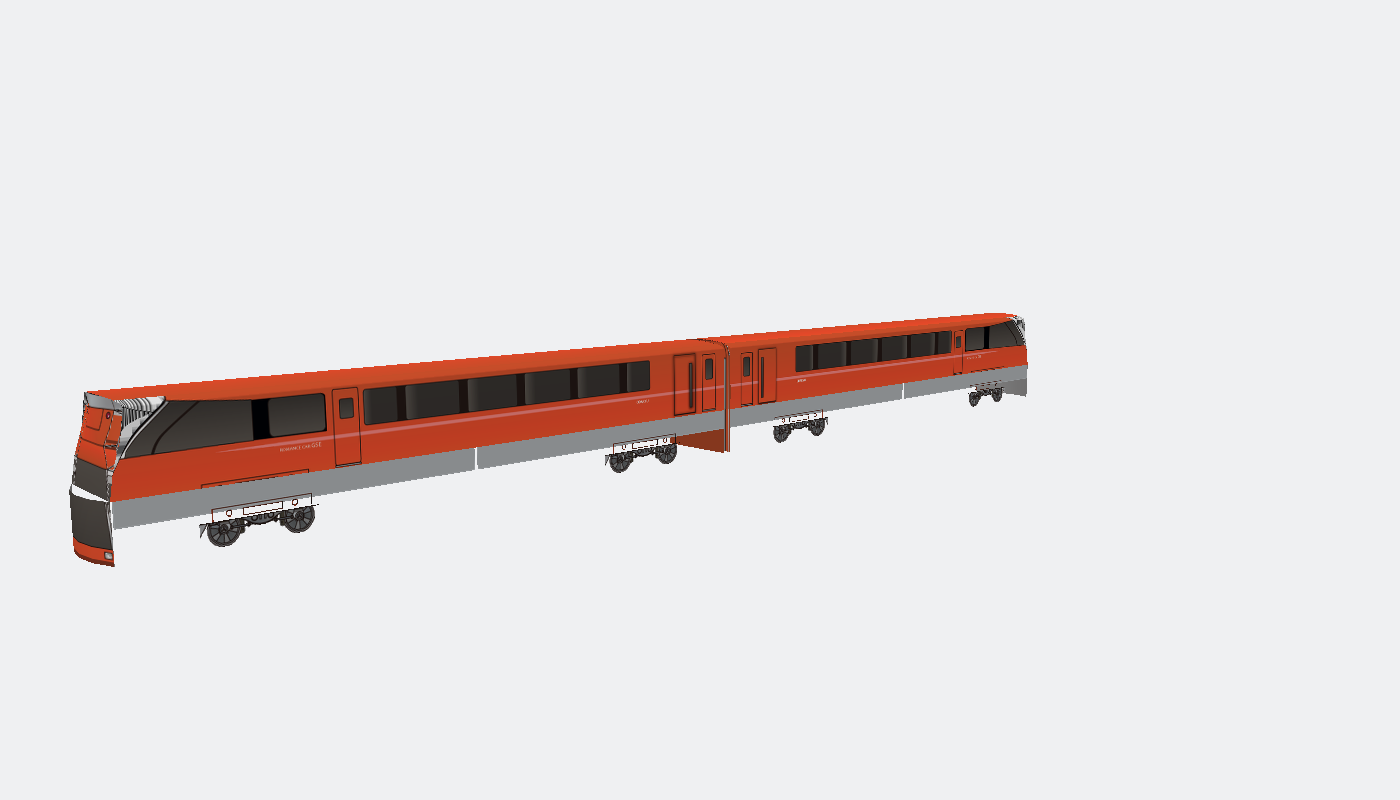
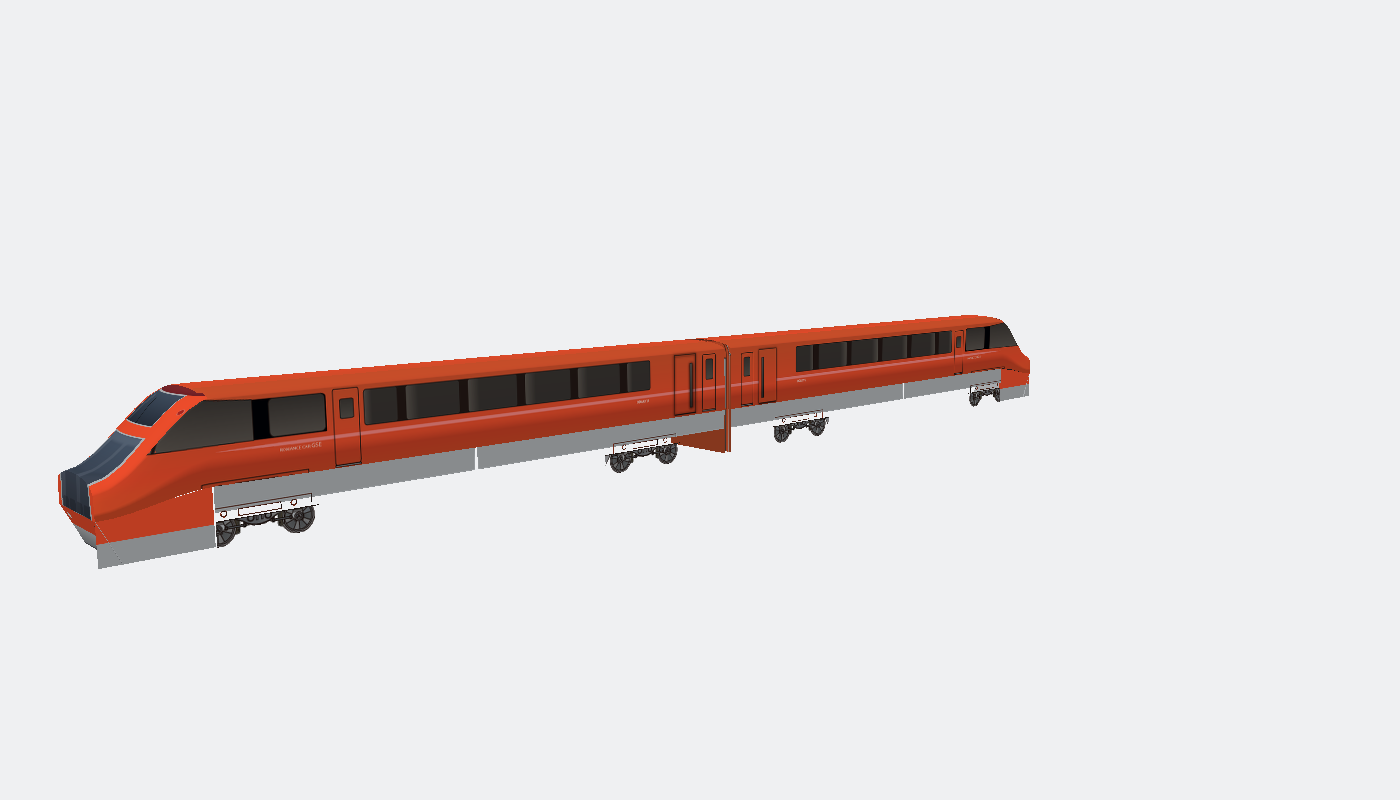
Rework batch 2 round 2: #391 odakyu-60000 + #404 osakyu-70000 rebuilt (MC 2026-11-27 14:31); batch-2 page cards refreshed to R2

Changed region(s): [[0.0307, 0.375, 0.7371, 0.7188]]

diff --git a/mc-review-rework2-round2-20261127/index.html b/mc-review-rework2-round2-20261127/index.html
@@ -1,0 +1,60 @@
+<!DOCTYPE html>
+<html lang="zh-CN">
+<head>
+<meta charset="utf-8">
+<meta name="viewport" content="width=device-width, initial-scale=1">
+<title>MC 快速审核第二批返工·第二轮 — 2 辆（2026-11-27）</title>
+<style>
+body{font-family:system-ui,-apple-system,"PingFang SC","Microsoft YaHei",sans-serif;margin:0;background:#f4f4f4;color:#222}
+.wrap{max-width:900px;margin:0 auto;padding:20px 16px 48px}
+h1{font-size:22px;margin:8px 0 4px}
+.sub{color:#666;font-size:14px;line-height:1.7;margin:0 0 18px}
+.card{background:#fff;border:1px solid #ddd;border-radius:10px;padding:16px;margin:0 0 18px}
+.card h2{font-size:17px;margin:0 0 8px}
+.card p{font-size:14px;line-height:1.7;color:#444;margin:0 0 10px}
+img{width:100%;height:auto;display:block;border:1px solid #ccc;border-radius:6px}
+.note{font-size:13px;color:#888;line-height:1.7}
+.warn{background:#fff3cd;border:1px solid #e6c200;border-radius:8px;padding:12px 14px;font-size:14px;line-height:1.7;margin:0 0 18px}
+.ok{background:#e6f4ea;border:1px solid #34a853;border-radius:8px;padding:12px 14px;font-size:14px;line-height:1.7;margin:0 0 18px}
+.cmp{display:grid;grid-template-columns:1fr 1fr;gap:10px;margin:0 0 10px}
+.cmp figure{margin:0}
+.cmp figcaption{font-size:13px;color:#666;text-align:center;margin-top:4px}
+code{font-size:12px;word-break:break-all}
+a{color:#0b5cad}
+</style>
+</head>
+<body>
+<div class="wrap">
+<h1>MC 快速审核第二批返工·第二轮 — 2 辆（2026-11-27）</h1>
+<p class="sub">MC 2026-11-27 14:31 微信点名两辆（第一轮返工已推、他看了仍不满意），只放这两辆。第二批返工页：<a href="../mc-review-rework2-20261127/">mc-review-rework2-20261127</a>（两辆的卡片已同步更新为第二轮修法与修后图）；快速审核页：<a href="../quick-review-20261127/">quick-review-20261127</a>。每辆一卡：号码、MC 原话（14:31）、根因、修法、commit SHA、第一轮修后 vs 第二轮修后对比图（斜视角＋鼻锥特写）。模型在 ooep/floral-salad-8734 的 models-pipeline 分支，index 663。</p>
+
+<div class="ok"><b>汇总：2/2 已推。</b>#391 odakyu-60000（f307c96f）与 #404 osakyu-70000（删 73b796d0＋建 ccb413d8）均已推上 models-pipeline，远端 blob 逐字节核实，index 663。两辆的 under/skirt alphaMode 均已恢复 MASK/0.5（第一轮 warp 丢的已补回）。</div>
+
+<div class="warn"><b>另请注意：#392 odakyu-70000（与 #404 同一辆实车 GSE 的异名重复 slug）有同样的“电脑”问题，而且更严重。</b>经核实：它的 front 贴图是同一张鼻锥件但<b>上下颠倒</b>（翻转后像素差 20.9 vs 不翻转 57.6），另是一套更老建法（car_length_m 20.8、alphaMode 全丢）。本轮未动，<b>已另派重建</b>（工作目录 r2-70000-392/，进行中）。</div>
+
+<div class="card" id="n391">
+<h2>#391 odakyu-60000 <span style="color:#666">—— 小田急60000形 MSE</span></h2>
+<p><b>MC 原话（14:31）：</b>“这个还是不行，重新做。”</p>
+<p><b>根因：</b>第一轮 OT-1 的 GLB warp（R=0.55）不够：原版前盖是以扇心 (0, 3.113) 为顶点的 29 三角平面扇形，位置 warp 只能移动已有顶点，扇心与外框拉回量不同 → 扇形顶成带硬折的帐篷，拱形折线就是扇形边，加大 R 永远修不好；且前脸/裙板贴图就是纸模端件 1:1，折叠拱线、白粘贴耳、中央矩形门原样进了 front 与 skirt_cab1 两张贴图，warp 动不了图上的线；侧面贴图鼻端还带纸模折叠引导线（对角斜线、左上白三角、顶部深色包边），司机侧窗画成尖底三角形。<br>
+<b>修法：</b>第二轮从原版 GLB 重做（OT-1 的 warp GLB 已弃用）：25 列×15 断面层分级网格新前盖（625 tris）取代扇形，边界顶点取车体前缘环满精度值，前盖平面取前缘环 z；平滑 warp（C1）：车顶后移 0.50 m、裙底 0.30 m、最前点 y≈1.90，平面圆收 0.18 m，D=1.5 m 融合；贴图按实车重画（front 双片风挡 y 1.60..2.80、外上圆角 r=0.30 m、中柱、雨刮、左片 LED 行显、发丝门缝；skirt_cab 车钩凹口＋前灯白＋红＋门缝延续；sideL/R 鼻端楔形区涂蓝、司机侧窗重画为四边形、红带按实测逐列中心线原像素恢复）；under/skirt alphaMode 恢复 MASK/0.5。<br>
+<b>推送：</b>提交 <code>f307c96f</code>（models-pipeline，一车一 commit）<br><span class="note">完整 SHA：<code>f307c96f07f7d3d24bcc6d017af282d788dcd323</code>；父提交 47426c87，一次成功</span></p>
+<div class="cmp"><figure><img src="img/odakyu-60000_before_oblique.png" alt="odakyu-60000 第一轮修后斜视角（MC 判不行）"><figcaption>第一轮修后（MC 14:31 判不行）——斜视角</figcaption></figure>
+<figure><img src="img/odakyu-60000_after_oblique.png" alt="odakyu-60000 第二轮修后斜视角"><figcaption>第二轮修后——斜视角</figcaption></figure></div>
+<div class="cmp"><figure><img src="img/odakyu-60000_before_nose.png" alt="odakyu-60000 第一轮鼻锥特写"><figcaption>第一轮修后——鼻锥特写</figcaption></figure>
+<figure><img src="img/odakyu-60000_after_nose.png" alt="odakyu-60000 第二轮鼻锥特写"><figcaption>第二轮修后——鼻锥特写</figcaption></figure></div>
+</div><div class="card" id="n404">
+<h2>#404 osakyu-70000 <span style="color:#666">—— 小田急70000形 GSE</span></h2>
+<p><b>MC 原话（14:31）：</b>“这个司机是贴图上下都是电脑的，而且他现在头型也不对。删掉，重新做。”</p>
+<p><b>根因：</b>第一轮 OT-1 只修了编组（car2 重建为 Tc）＋尖头 warp R=0.55，但前脸仍错：“电脑”不是颠倒、不是取错件——纸模鼻锥件是折叠展开图不是立面图，拍平到平板端盖上，红色司机室面板成空矩形框＋2 红圆点（读作控制面板/屏幕）、全景风挡成无反光无座椅无立柱的深色梯形（读作空白显示器）、折叠线＋端盖/裙板接缝把风挡切成上下两段、warp 又加一道折痕；头型也不对：平板＋warp 折角楔形 vs 实车光滑连续曲面。<br>
+<b>修法：</b>第二轮删后重建：删前核实线上确为纸模（OT-1 产物，11,846 tris，无高精度版）；删 commit 73b796d0（index 663→662）；再从同一张图纸从头重建：loft 鼻锥（不用 warp；前脸 UV 高度式 v=(Y_TOP−y)/Y_TOP），底边从 1.59 m 下探到 1.15 m（配套封闭下部＋后倾前裙板），前脸按实车照片重画正视立面（波尔多红车顶、司机窗 y 3.20–3.90、素红带无目的地显示、整块连续全景玻璃 y 1.15–2.95、下红鼻带 y 0.60–1.15、银裙 y 0–0.60）；under/skirt alphaMode 恢复 MASK/0.5；consist [21.3, 21.3] 不变。重建 commit ccb413d8（index 662→663）。<br>
+<b>推送：</b>删 <code>73b796d0</code>＋建 <code>ccb413d8</code>（models-pipeline，各单 commit）<br><span class="note">完整 SHA：删 <code>73b796d02bf86e4ef725656a01ae4c14a2e1d105</code>；建 <code>ccb413d8909c6f05ff9e3e6f9027561ac0b6bb93</code></span></p>
+<div class="cmp"><figure><img src="img/osakyu-70000_before_oblique.png" alt="osakyu-70000 第一轮修后斜视角（MC 判不行）"><figcaption>第一轮修后（MC 14:31 判不行）——斜视角</figcaption></figure>
+<figure><img src="img/osakyu-70000_after_oblique.png" alt="osakyu-70000 第二轮修后斜视角"><figcaption>第二轮修后——斜视角</figcaption></figure></div>
+<div class="cmp"><figure><img src="img/osakyu-70000_before_nose.png" alt="osakyu-70000 第一轮鼻锥特写"><figcaption>第一轮修后——鼻锥特写</figcaption></figure>
+<figure><img src="img/osakyu-70000_after_nose.png" alt="osakyu-70000 第二轮鼻锥特写"><figcaption>第二轮修后——鼻锥特写</figcaption></figure></div>
+</div>
+
+<p class="note">说明：修前图为第一轮 OT-1 渲染（MC 14:31 看到的版本）；修后图为第二轮 R2 渲染。工作目录：~/workspace/jr3d/work/mc-review-rework2-round2-20261127/（DISPATCH.md＋r2-60000/REPORT.md、r2-70000/REPORT.md）；建页脚本：rework-page/build_page.py。建模 skill 已升到 v1.2.39（#391 的 6 条＋#404 的 7 条，见 SKILL.md 变更记录 1.2.39 / 1.2.38）。</p>
+</div>
+</body>
+</html>

diff --git a/mc-review-rework2-20261127/index.html b/mc-review-rework2-20261127/index.html
@@ -33,7 +33,8 @@ h3{font-size:16px;margin:18px 0 8px}
 <p class="sub">MC 2026-11-27 12:06 微信审核结果的第二批返工（#387–#521），只放这 70 辆。MC 原话“自己该重建，重建。该修复修复，不要问我了，全部弄好以后再给我审批”（09:29 放行）。模型在 ooep/floral-salad-8734 的 models-pipeline 分支，index 663 个模型（本批全是已有 slug，不增新车型）。第一批返工页：<a href="../rework-batch1-20261127/">rework-batch1-20261127</a>；快速审核页：<a href="../quick-review-20261127/">quick-review-20261127</a>。每辆一卡：号码、类别、MC 原话、根因、修法、commit SHA、返工前后斜视角对比图。</p>
 
 <div class="ok"><b>汇总：已推 64/70、未推 6 辆。</b>未推 6 辆＝无图 4 辆（先接受现有子集，MC 14:34 授权决断）＋暂缓 1 辆（sagano-de10，MC 14:34 指令先不做）＋无错 1 辆：
-<ul><li><b>#407 sagano-de10</b>——未推：无可翻贴图，图纸内容错误（机车罩画黑 vs 实车红、驾驶端玻璃画黑菱形网纹 vs 实车全景玻璃），翻转修不了；MC 14:34 指令先不做（暂缓）</li><li><b>#423 seibu-001</b>——未推：无图（实车 8 辆、模型仅 1 辆；全库只有 1 份图纸，缺 7 辆无法补；MC 14:34 授权决断：先接受现有子集，等有图再说）</li><li><b>#432 senboku-9300</b>——未推：无图（实车 4 辆、模型仅 1 辆；三处图纸来源均无 9300/8300 图；MC 14:34 授权决断：先接受现有子集，等有图再说）</li><li><b>#472 toei-5500</b>——未推：无图（实车 8 辆、模型 2 辆；图纸库只有 1 张先头车净片；MC 14:34 授权决断：先接受现有子集，等有图再说）</li><li><b>#476 tokyometro-13000</b>——未推：无图（实车 7 辆、模型 2 辆；图纸库只有 1 张先头车净片；MC 14:34 授权决断：先接受现有子集，等有图再说）</li><li><b>#484 tokyu-300</b>——未推：无错（单 GLB 即 2 辆铰接全编组，两端均为司机面）</li></ul></div>
+<ul><li><b>#407 sagano-de10</b>——未推：无可翻贴图，图纸内容错误（机车罩画黑 vs 实车红、驾驶端玻璃画黑菱形网纹 vs 实车全景玻璃），翻转修不了；MC 14:34 指令先不做（暂缓）</li><li><b>#423 seibu-001</b>——未推：无图（实车 8 辆、模型仅 1 辆；全库只有 1 份图纸，缺 7 辆无法补；MC 14:34 授权决断：先接受现有子集，等有图再说）</li><li><b>#432 senboku-9300</b>——未推：无图（实车 4 辆、模型仅 1 辆；三处图纸来源均无 9300/8300 图；MC 14:34 授权决断：先接受现有子集，等有图再说）</li><li><b>#472 toei-5500</b>——未推：无图（实车 8 辆、模型 2 辆；图纸库只有 1 张先头车净片；MC 14:34 授权决断：先接受现有子集，等有图再说）</li><li><b>#476 tokyometro-13000</b>——未推：无图（实车 7 辆、模型 2 辆；图纸库只有 1 张先头车净片；MC 14:34 授权决断：先接受现有子集，等有图再说）</li><li><b>#484 tokyu-300</b>——未推：无错（单 GLB 即 2 辆铰接全编组，两端均为司机面）</li></ul>
+<b>第二轮：</b>#391 odakyu-60000 与 #404 osakyu-70000 经 MC 14:31 点名重做，已重做并推上（卡片为第二轮修法与修后图）；另见第二轮返工页 <a href="../mc-review-rework2-round2-20261127/">mc-review-rework2-round2-20261127</a>。</div>
 
 <div class="warn"><b>特别标注：</b><br>
 ⚠ <b>#520 yokohamasub-10000 左缘胶耳未修（已推，耳未修）</b>：x 0–43、约 12.8% 宽白竖带；任务定本车只修贴图颠倒，无干净的裁切-重标方案（风挡宽已正确 1.96 m，拉伸会变 2.33 m），留待以后单独处理。<br>
@@ -85,9 +86,9 @@ h3{font-size:16px;margin:18px 0 8px}
 </div><div class="card" id="n391">
 <h2>#391 odakyu-60000 <span style="color:#666">—— 其他（ot-1）</span></h2>
 <p><b>MC 原话：</b>其他：这个车是楔形的</p>
-<p><b>根因：</b>纸模端盖是全平直竖板，楔形只画在侧面贴图里。<br>
-<b>修法：</b>GLB 级 warp（dz＝out·(−R·r(y)＋F·g(x))·f(d)，D＝1.2 m），楔形 R＝0.55、edge_back F＝−0.30（车顶中心 −0.551、边缘 −0.780、裙板边缘 −0.307）；侧面贴图是满幅矩形，后倾量按实车照片定。<br>
-<b>推送：</b>提交 <code>d797d028</code>（models-pipeline，一车一 commit；wakayama-2270 为两 commit）<br><span class="note">完整 SHA：<code>d797d028c4427460ceaf708accc504821e50fafc</code></span></p>
+<p><b>根因：</b>第一轮 OT-1 的 GLB warp（R=0.55）不够：原版前盖是 29 三角扇形，warp 只能把它顶成带硬折的帐篷（拱形折线就是扇形边）；且前脸/裙板贴图就是纸模端件 1:1，折叠拱线、白耳、矩形贯通门全在图上，warp 去不掉。MC 14:31 看后判“还是不行，重新做”。<br>
+<b>修法：</b>第二轮从原版 GLB 重做：25×15 分级网格新前盖（625 tris）＋C1 平滑 warp（车顶后移 0.50 m）＋前脸/裙板/侧面鼻端贴图按实车重画（双片圆角风挡、雨刮、LED 行显、车钩凹口、前灯）；under/skirt alphaMode 恢复 MASK/0.5。<br>
+<b>推送：</b>提交 <code>f307c96f</code>（models-pipeline，一车一 commit；wakayama-2270 为两 commit）<br><span class="note">完整 SHA：<code>f307c96f07f7d3d24bcc6d017af282d788dcd323</code></span></p>
 <div class="cmp"><figure><img src="img/odakyu-60000_before.png" alt="odakyu-60000 返工前斜视角"><figcaption>修前</figcaption></figure><figure><img src="img/odakyu-60000_after.png" alt="odakyu-60000 返工后斜视角"><figcaption>修后</figcaption></figure></div>
 </div><div class="card" id="n392">
 <h2>#392 odakyu-70000 <span style="color:#666">—— 其他（ot-1）</span></h2>
@@ -134,9 +135,9 @@ h3{font-size:16px;margin:18px 0 8px}
 </div><div class="card" id="n404">
 <h2>#404 osakyu-70000 <span style="color:#666">—— 其他（ot-1）</span></h2>
 <p><b>MC 原话：</b>其他：编组错误 而且是尖头车</p>
-<p><b>根因：</b>编组错误＋尖头车：car2 原为两端贯通门＋司机室风挡朝内＋20.0 m 的错误车。<br>
-<b>修法：</b>以 car1 绕 Y 旋 180° 重建 car2 为第二辆 Tc（21.3 m，旋转非镜像），再尖头 warp R＝0.55、F＝−0.35；consist 改为 [21.3, 21.3]。与 #392 是同一辆车（GSE）的异名重复 slug，本批不合并；实车 7 辆编组的中 5 辆无图纸，不补。<br>
-<b>推送：</b>提交 <code>452bbd56</code>（models-pipeline，一车一 commit；wakayama-2270 为两 commit）<br><span class="note">完整 SHA：<code>452bbd56770e63cefdf57019bd38d6a4f73b3654</code></span></p>
+<p><b>根因：</b>第一轮 OT-1 只修了编组（car2 重建为 Tc）＋尖头 warp R=0.55，但前脸仍错：纸模鼻锥件是折叠展开图不是立面图，拍平后红司机面板（空矩形框＋2 圆点）像控制面板、大块深色梯形像空白显示器，折叠线横切风挡；头型是平板楔形而非实车光滑曲面。MC 14:31 看后判“司机贴图上下都是电脑，头型也不对，删掉，重新做”。<br>
+<b>修法：</b>第二轮删后重建：删 commit 73b796d0（index 663→662），再从图纸从头重建（loft 光滑流线展望头，底边下探到 y=1.15 m＋后倾前裙板，前脸按实车重画：整块全景风挡、无电脑面板、无横线切断玻璃）；under/skirt alphaMode 恢复 MASK/0.5；consist [21.3, 21.3] 不变。重建 commit ccb413d8（index 662→663）。<br>
+<b>推送：</b>提交 <code>ccb413d8</code>（models-pipeline，一车一 commit；wakayama-2270 为两 commit）<br><span class="note">完整 SHA：<code>ccb413d8909c6f05ff9e3e6f9027561ac0b6bb93</code></span></p>
 <div class="cmp"><figure><img src="img/osakyu-70000_before.png" alt="osakyu-70000 返工前斜视角"><figcaption>修前</figcaption></figure><figure><img src="img/osakyu-70000_after.png" alt="osakyu-70000 返工后斜视角"><figcaption>修后</figcaption></figure></div>
 </div><div class="card" id="n405">
 <h2>#405 oumi-900 <span style="color:#666">—— 其他（ot-2）</span></h2>
